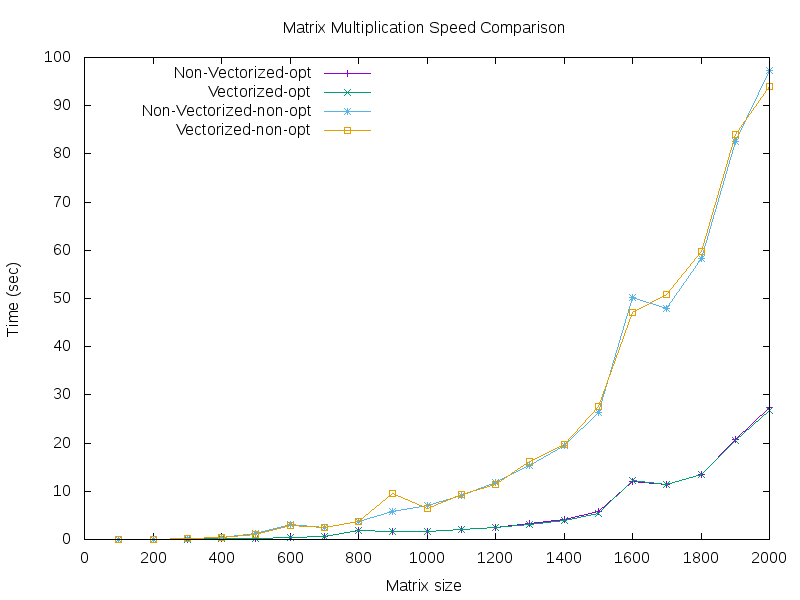
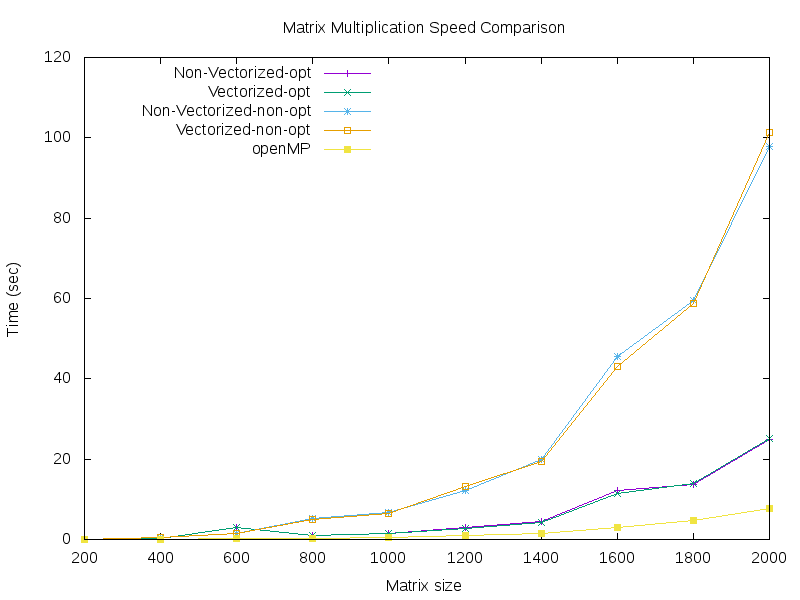
OpenMP automation added

diff --git a/mmult_omp_timing.c b/mmult_omp_timing.c
@@ -14,6 +14,9 @@ int main(int argc, char* argv[]) {
     struct timespec start;
     struct timespec end;
     struct timespec res;
+    clock_t begin, after;
+
+    double cpu_time_used;
     double *a, *b, *c1, *c2;
     int n;
     double times[2];
@@ -29,10 +32,13 @@ int main(int argc, char* argv[]) {
         times[0] = deltaTime(&start, &end);
         printf("%d %f", n, times[0]);
         clock_gettime(CLOCK_REALTIME, &start);
+        begin = clock();
         mmult_omp(c2, a, n, n, b, n, n);
+        after = clock();
+        cpu_time_used = ((double) (after - begin)) / CLOCKS_PER_SEC;
         clock_gettime(CLOCK_REALTIME, &end);
         times[1] = deltaTime(&start, &end);
-        printf(" %f", times[1]);
+        printf(" %f", cpu_time_used);
         printf("\n");
         compare_matrices(c1, c2, n, n);
     } else {

diff --git a/mat.c b/mat.c
@@ -49,7 +49,11 @@ int compare_matrices(double *a, double *b, int nRows, int nCols) {
 			return 0;
 		}
 	}
-	puts("Matrices are the same");
+
+	/* 
+    only print when matrices are not the same, for clean tabular data
+    puts("Matrices are the same");
+    */
     return 1;
 }
 

diff --git a/MatrixTestDriver.c b/MatrixTestDriver.c
@@ -61,4 +61,5 @@ int main(int argc, char** argv) {
 
 
 
+
 }
